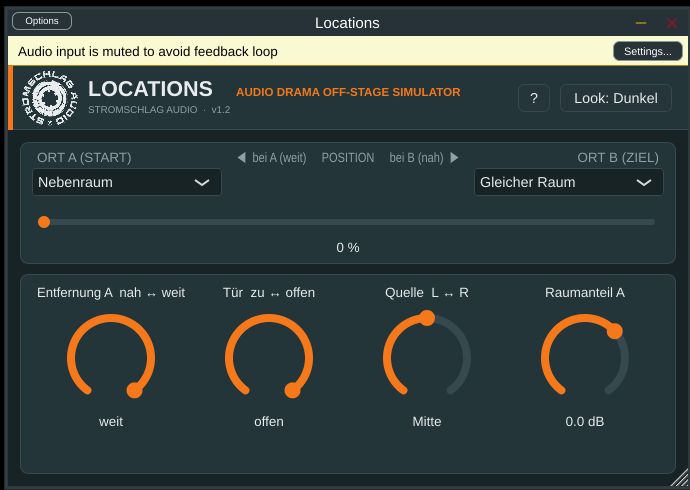
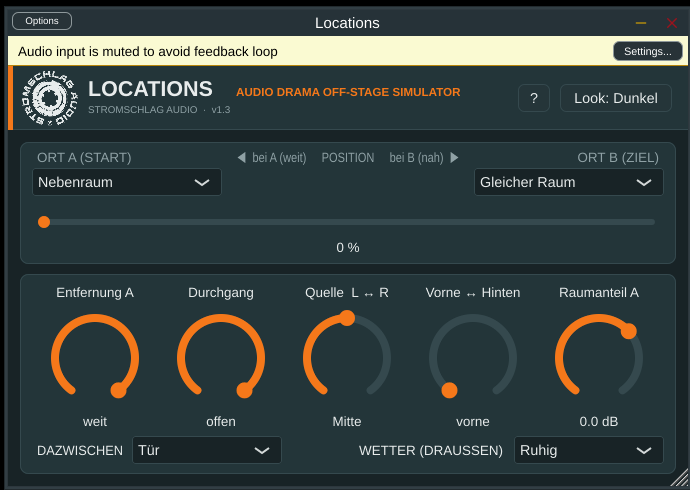
Version 1.3: Dazwischen (Tuer, Fenster, Vorhang, Autoscheibe), Wetter draussen, Vorne/Hinten, Hilfe mit Umlauten
Claude-Session: https://claude.ai/code/session_01N8U6GB1xxMvz4mQTh8N7Nk

diff --git a/Source/LocationsDSP.h b/Source/LocationsDSP.h
@@ -59,6 +59,45 @@ inline const PlaceDef& place (int i)
     return defs[std::clamp (i, 0, kNumPlaces - 1)];
 }
 
+constexpr int kFirstOutdoor = 10;   // ab diesem Index sind die Orte "Draussen"
+
+//==============================================================================
+// Was zwischen Quelle und Hoerer ist (Regler "zu - offen" blendet zwischen diesem Klang und offen)
+struct BarrierDef
+{
+    const char* name;
+    float fcClosed;   // Tiefpass bei geschlossen (Hz)
+    float gainDb;     // Pegel bei geschlossen
+    float hpHz;       // Bassabsenkung bei geschlossen
+    float bodyHz;     // Eigenresonanz (Tuerblatt, Glas, Kabine)
+    float bodyQ, bodyAmt;
+};
+constexpr int kNumBarriers = 4;
+inline const BarrierDef& barrier (int i)
+{
+    static const BarrierDef defs[kNumBarriers] = {
+        { "Tuer",         650.0f, -17.0f, 110.0f,  210.0f, 2.3f, 0.35f },
+        { "Fenster",     1100.0f, -20.0f, 180.0f,  420.0f, 2.0f, 0.25f },
+        { "Vorhang",     3500.0f,  -5.0f,  20.0f,  300.0f, 1.0f, 0.00f },
+        { "Autoscheibe",  800.0f, -14.0f, 120.0f,  150.0f, 1.6f, 0.50f },
+    };
+    return defs[std::clamp (i, 0, kNumBarriers - 1)];
+}
+
+// Wetter draussen: zusaetzlicher Hoehenverlust, Pegelverlust und Boeen (Pegel schwankt langsam)
+struct WeatherDef { const char* name; float lpOct, gainDb, gustDb, gustHz; };
+constexpr int kNumWeathers = 4;
+inline const WeatherDef& weather (int i)
+{
+    static const WeatherDef defs[kNumWeathers] = {
+        { "Ruhig",  0.0f,  0.0f,  0.0f, 0.5f },
+        { "Wind",   1.0f, -3.0f,  6.0f, 0.6f },
+        { "Regen",  1.5f, -4.0f,  1.5f, 0.3f },
+        { "Sturm",  2.0f, -6.0f, 10.0f, 1.0f },
+    };
+    return defs[std::clamp (i, 0, kNumWeathers - 1)];
+}
+
 //==============================================================================
 // Zustandsvariablen-Filter (TPT), stabil bei bewegter Grenzfrequenz
 struct SVF
@@ -248,6 +287,9 @@ struct Params
     float door = 1.0f;         // 0 = zu, 1 = offen
     float roomDb = 0.0f;       // Raumanteil von Ort A (Trim, dB)
     float pan = 0.0f;          // -1 = links, 0 = Mitte, +1 = rechts (nur die Quelle, nicht der Raum)
+    float rear = 0.0f;         // 0 = vorne, 1 = hinten (nur die Quelle)
+    int   barrier = 0;         // Tuer / Fenster / Vorhang / Autoscheibe
+    int   weather = 0;         // Ruhig / Wind / Regen / Sturm (wirkt nur draussen bei Ort A)
 };
 
 class Engine
@@ -259,7 +301,7 @@ public:
         roomA.prepare (sr); roomB.prepare (sr);
         for (auto& d : path) d.prepare ((int) (0.04f * sr) + 4);
         smCoef = 1.0f - std::exp (-1.0f / (0.03f * sr / kBlock));   // 30 ms Glaettung
-        first = true; counter = 0;
+        first = true; firstBar = true; counter = 0;
         reset();
     }
     void reset()
@@ -270,6 +312,7 @@ public:
         for (auto& f : doorLp) f.reset();
         for (auto& f : doorHp) f.reset();
         for (auto& f : doorBp) f.reset();
+        for (auto& f : rearHp) f.reset();
     }
     // left/right duerfen identisch sein (Mono). Verarbeitung in-place.
     void process (float* left, float* right, int numSamples, const Params& p)
@@ -289,6 +332,11 @@ public:
             float al, ar, bl, br;
             roomA.process (mono, wetA, echoA, al, ar);
             roomB.process (mono, wetB, echoB, bl, br);
+            if (rearCut < 1.0f)                              // hinten: Hoehen der Quelle etwas dunkler
+            {
+                l += (rearCut - 1.0f) * rearHp[0].highpass (l);
+                r += (rearCut - 1.0f) * rearHp[1].highpass (r);
+            }
             l = (l * panL + al + bl) * gain;                 // Quelle gepannt, Raum bleibt stehen
             r = (r * panR + ar + br) * gain;
 
@@ -329,8 +377,18 @@ private:
 
         // Zielwerte: Ort A in Start-Entfernung, Ort B nah, dazwischen gleitend
         const float t = sBlend, dA = sDist;
-        const float fcT = logLerp (logLerp (A.fcNear, A.fcFar, dA), B.fcNear, t);
-        const float gT = lerp (lerp (A.gainNear, A.gainFar, dA), B.gainNear, t);
+        // Wetter: nur wenn Ort A draussen ist, staerker mit Entfernung, verschwindet zu Ort B hin
+        const auto& W = weather (p.weather);
+        const float wAmt = (p.placeA >= kFirstOutdoor ? 1.0f : 0.0f) * dA * (1.0f - t);
+        gustState = gustState + gustCoef * (rand01() * 2.0f - 1.0f - gustState);
+        gustState2 = gustState2 + gustCoef * (gustState - gustState2);
+        gustCoef = 1.0f - std::exp (-2.0f * kPi * W.gustHz * kBlock / sr);
+        const float gustNorm = 0.7f / (0.577f * std::sqrt (gustCoef * 0.5f));
+        const float gust = std::clamp (gustState2 * gustNorm, -1.0f, 1.0f);       // langsam schwankend, ca. -1..1
+        const float fcT = logLerp (logLerp (A.fcNear, A.fcFar, dA), B.fcNear, t)
+                          * std::pow (0.5f, W.lpOct * wAmt * (1.0f + 0.3f * gust));
+        const float gT = lerp (lerp (A.gainNear, A.gainFar, dA), B.gainNear, t)
+                         + (W.gainDb + W.gustDb * 0.5f * (gust - 1.0f)) * wAmt;
         const float ca = std::cos (t * kPi * 0.5f), cb = std::sin (t * kPi * 0.5f);   // Raeume: gleiche Leistung
         const float wAT = A.rt60 > 0.0f ? dbToLin (lerp (A.wetNear, A.wetFar, dA) + p.roomDb) * ca : 0.0f;
         const float wBT = B.rt60 > 0.0f ? dbToLin (B.wetNear) * cb : 0.0f;
@@ -359,18 +417,30 @@ private:
         panL = 1.41421356f * std::cos (theta);
         panR = 1.41421356f * std::sin (theta);
 
-        // Tuer: zu = 650 Hz steil, dumpf, leise; offen = unveraendert
+        // vorne/hinten (nur Quelle): hinten bis zu 7 dB weniger Hoehen ab ca. 2,5 kHz
+        sRear += smCoef * (std::clamp (p.rear, 0.0f, 1.0f) - sRear);
+        rearCut = dbToLin (-7.0f * sRear);
+        if (sRear < 0.001f) rearCut = 1.0f;
+        for (auto& f : rearHp) f.set (2500.0f, sr);
+
+        // Durchgang (Tuer, Fenster, Vorhang, Autoscheibe): zu = Klang des Hindernisses, offen = unveraendert
+        const auto& D = barrier (p.barrier);
+        if (firstBar) { bFc = std::log (D.fcClosed); bGain = D.gainDb; bHp = D.hpHz; bBodyHz = std::log (D.bodyHz); bQ = D.bodyQ; bAmt = D.bodyAmt; firstBar = false; }
+        bFc += smCoef * (std::log (D.fcClosed) - bFc);  bGain += smCoef * (D.gainDb - bGain);   // Typwechsel gleitet
+        bHp += smCoef * (D.hpHz - bHp);                  bBodyHz += smCoef * (std::log (D.bodyHz) - bBodyHz);
+        bQ += smCoef * (D.bodyQ - bQ);                    bAmt += smCoef * (D.bodyAmt - bAmt);
+        const float fcClosed = std::exp (bFc);
         const float closed = 1.0f - sDoor;
-        const float dfc = 650.0f * std::pow (20000.0f / 650.0f, std::pow (sDoor, 1.4f));
+        const float dfc = fcClosed * std::pow (20000.0f / fcClosed, std::pow (sDoor, 1.4f));
         for (int c = 0; c < 2; ++c)
         {
             doorLp[c * 2].set (dfc, sr, 0.5412f);
             doorLp[c * 2 + 1].set (dfc, sr, 1.3066f);
-            doorHp[c].set (20.0f + 90.0f * closed, sr);
-            doorBp[c].set (210.0f, sr, 2.3f);
+            doorHp[c].set (20.0f + (bHp - 20.0f) * closed, sr);
+            doorBp[c].set (std::exp (bBodyHz), sr, bQ);
         }
-        doorBody = 0.35f * closed * closed;
-        doorGain = dbToLin (-17.0f * std::pow (closed, 1.2f));
+        doorBody = bAmt * closed * closed;
+        doorGain = dbToLin (bGain * std::pow (closed, 1.2f));
         doorOpen = smooth01 ((sDoor - 0.9f) / 0.1f);
     }
 
@@ -380,9 +450,14 @@ private:
     float sDly = 1.0f, curDly = 1.0f, dlyStep = 0.0f;
     float open = 1.0f, gain = 1.0f, panL = 1.0f, panR = 1.0f;
     float doorBody = 0, doorGain = 1, doorOpen = 1;
+    float sRear = 0.0f, rearCut = 1.0f;
+    float bFc = 6.5f, bGain = 0.0f, bHp = 20.0f, bBodyHz = 5.3f, bQ = 1.0f, bAmt = 0.0f; bool firstBar = true;
+    float gustState = 0.0f, gustState2 = 0.0f, gustCoef = 0.01f;
+    unsigned int rng = 0x9e3779b9u;
+    float rand01() { rng ^= rng << 13; rng ^= rng >> 17; rng ^= rng << 5; return (float) (rng & 0xffffff) / 16777216.0f; }
     bool first = true; int counter = 0;
     Room roomA, roomB;
     Delay path[2];
-    SVF lp[2], doorLp[4], doorBp[2]; OnePole doorHp[2];
+    SVF lp[2], doorLp[4], doorBp[2]; OnePole doorHp[2], rearHp[2];
 };
 } // namespace loc

diff --git a/Source/PluginEditor.cpp b/Source/PluginEditor.cpp
@@ -53,10 +53,25 @@ LocationsEditor::LocationsEditor (LocationsProcessor& p) : AudioProcessorEditor 
     content.addAndMakeVisible (blend);
     attBlend = std::make_unique<APVTS::SliderAttachment> (processor.apvts, "blend", blend);
 
-    setupKnob (distance, "distance", u8 ("Entfernung A  nah \xe2\x86\x94 weit"));
-    setupKnob (door, "door", u8 ("T\xc3\xbcr  zu \xe2\x86\x94 offen"));
+    setupKnob (distance, "distance", "Entfernung A");
+    setupKnob (door, "door", "Durchgang");
     setupKnob (pan, "pan", u8 ("Quelle  L \xe2\x86\x94 R"));
+    setupKnob (rear, "rear", u8 ("Vorne \xe2\x86\x94 Hinten"));
     setupKnob (room, "room", "Raumanteil A");
+
+    barrierBox.addItemList (LocationsProcessor::barrierNames(), 1);
+    weatherBox.addItemList (LocationsProcessor::weatherNames(), 1);
+    content.addAndMakeVisible (barrierBox);
+    content.addAndMakeVisible (weatherBox);
+    attBarrier = std::make_unique<APVTS::ComboBoxAttachment> (processor.apvts, "barrier", barrierBox);
+    attWeather = std::make_unique<APVTS::ComboBoxAttachment> (processor.apvts, "weather", weatherBox);
+    barrierLabel.setText ("DAZWISCHEN", juce::dontSendNotification);
+    weatherLabel.setText (u8 ("WETTER (DRAUSSEN)"), juce::dontSendNotification);
+    for (auto* l : { &barrierLabel, &weatherLabel })
+    {
+        l->setJustificationType (juce::Justification::centredRight);
+        content.addAndMakeVisible (*l);
+    }
 
 
     themeButton.onClick = [this]
@@ -79,26 +94,29 @@ LocationsEditor::LocationsEditor (LocationsProcessor& p) : AudioProcessorEditor 
     helpText.setPopupMenuEnabled (false);
     helpText.setText (u8 (
         "ORT A / ORT B\n"
-        "Start- und Zielort der Bewegung. Ort B ist meistens \"Gleicher Raum\", also der Raum der Zuhoerer.\n\n"
+        "Start- und Zielort der Bewegung. Ort B ist meistens „Gleicher Raum“, also der Raum der Zuhörer. Ort B ist immer nah.\n\n"
         "POSITION (A nach B)\n"
-        "Der wichtigste Regler. 0 % = Quelle bei Ort A, weit weg. 100 % = bei Ort B, ganz nah. "
-        "Automatisiere ihn fuer jede Bewegung (Treppe runter, Foerster kommt naeher).\n\n"
-        "ENTFERNUNG A (nah - weit)\n"
-        "Wie weit weg Ort A ist: 0 % = nah, 100 % = weit. Beispiel Foerster: weit = tief im Wald, 40 % = hinter dem naechsten Baum. "
-        "Ort B ist immer nah, deshalb wirkt dieser Regler nur auf Ort A.\n\n"
-        "TUER (zu-offen)\n"
-        "0 % = Tuer geschlossen: dumpf und leise. 100 % = offen, ohne Wirkung. Eigener Regler, weil eine Tuer meist zu einem anderen Zeitpunkt aufgeht.\n\n"
-        "QUELLE L - R (Panorama)\n"
-        "Platziert die Quelle - also das, was auf der Spur liegt: Stimme, Schritte, Geraeusch - links oder rechts. "
-        "Nur die Quelle wandert, Hall und Echo des Raums bleiben in der Mitte stehen (anders als der Pan am Kanal). "
-        "Wirkt bei Ort A, auf dem Weg und bei Ort B. Mitte = keine Wirkung.\n\n"
+        "Der wichtigste Regler. 0 % = Quelle bei Ort A, 100 % = bei Ort B. Automatisiere ihn für jede Bewegung "
+        "(Treppe herunter, Förster kommt näher, jemand geht weg).\n\n"
+        "ENTFERNUNG A (nah – weit)\n"
+        "Wie weit weg Ort A ist. Beispiel Förster: weit = tief im Wald, 40 % = hinter dem nächsten Baum. "
+        "Wirkt nur auf Ort A.\n\n"
+        "DURCHGANG (zu – offen) und DAZWISCHEN\n"
+        "Unten links wählst du, was zwischen Quelle und Hörer ist: Tür, Fenster, Vorhang oder Autoscheibe. "
+        "Der Regler „Durchgang“ blendet von zu (dumpf, leise, mit dem Klang des Hindernisses) nach offen (keine Wirkung). "
+        "Fenster gekippt = etwa in der Mitte. Autoscheibe: jemand spricht von außen ins Auto oder umgekehrt.\n\n"
+        "QUELLE L ↔ R (Panorama)\n"
+        "Platziert die Quelle – also das, was auf der Spur liegt: Stimme, Schritte, Geräusch – links oder rechts. "
+        "Hall und Echo bleiben in der Mitte (anders als der Pan am Kanal). Wirkt bei Ort A, auf dem Weg und bei Ort B.\n\n"
+        "VORNE ↔ HINTEN\n"
+        "Steht die Quelle hinter dem Hörer, klingt sie etwas dunkler. Hall und Echo bleiben gleich.\n\n"
+        "WETTER (DRAUSSEN)\n"
+        "Nur wenn Ort A draußen ist. Wind, Regen oder Sturm schlucken Höhen und lassen Rufe in Böen schwanken. "
+        "Wirkt umso stärker, je weiter weg die Quelle ist, und verschwindet, wenn sie bei Ort B ankommt.\n\n"
         "RAUMANTEIL A\n"
         "Mehr oder weniger Hall bzw. Echo von Ort A, in dB. Feinregler, normalerweise auf 0 dB lassen.\n\n"
-
-        "Look: Dunkel / Hell umschalten. Das Fenster ist am rechten unteren Rand skalierbar."));
-    helpText.setColour (juce::TextEditor::backgroundColourId, theme.panel);
-    helpText.setColour (juce::TextEditor::textColourId, theme.text);
-    helpText.setColour (juce::TextEditor::outlineColourId, theme.accent);
+        "Lautstärke und Laufzeit des Weges ändern sich automatisch mit der Entfernung.\n"
+        "Look: Dunkel / Hell umschalten. Das Fenster ist am rechten unteren Rand skalierbar (50–300 %)."));
     helpText.setFont (juce::FontOptions (13.0f));
     helpText.setVisible (false);
     content.addChildComponent (helpText);   // startet ausgeblendet
@@ -108,7 +126,10 @@ LocationsEditor::LocationsEditor (LocationsProcessor& p) : AudioProcessorEditor 
     placeB.setTooltip (u8 ("Zielort der Bewegung, meist Gleicher Raum"));
     blend.setTooltip (u8 ("Position: 0 % = bei Ort A (weit), 100 % = bei Ort B (nah). Hauptregler fuer die Bewegung."));
     distance.slider.setTooltip (u8 ("Wie weit weg Ort A ist (nah = 0 %, weit = 100 %). Ort B ist immer nah."));
-    door.slider.setTooltip (u8 ("0 % = Tuer zu (dumpf, leise), 100 % = offen"));
+    door.slider.setTooltip (u8 ("zu = dumpf und leise (Klang je nach \"Dazwischen\"), offen = keine Wirkung"));
+    rear.slider.setTooltip (u8 ("Quelle vor oder hinter dem H\xc3\xb6rer: hinten klingt sie etwas dunkler. Hall bleibt gleich."));
+    barrierBox.setTooltip (u8 ("Was zwischen Quelle und H\xc3\xb6rer ist: T\xc3\xbcr, Fenster, Vorhang oder Autoscheibe (jemand spricht von au\xc3\x9f" "en ins Auto)"));
+    weatherBox.setTooltip (u8 ("Nur wenn Ort A drau\xc3\x9f" "en ist: Wind, Regen oder Sturm schlucken H\xc3\xb6hen, B\xc3\xb6" "en lassen Rufe schwanken. Wirkt mit der Entfernung."));
     pan.slider.setTooltip (u8 ("Stimme bzw. Ger\xc3\xa4usch links/rechts platzieren. Hall und Echo bleiben in der Mitte. Wirkt bei Ort A, auf dem Weg und bei Ort B."));
     room.slider.setTooltip (u8 ("Mehr oder weniger Hall/Echo von Ort A (Feinregler, dB)"));
 
@@ -145,6 +166,11 @@ void LocationsEditor::applyTheme()
     for (auto* l : { &labelA, &labelB, &labelBlend })
         l->setColour (juce::Label::textColourId, theme.dim);
     themeButton.setButtonText (theme.dark ? "Look: Dunkel" : "Look: Hell");
+    helpText.setColour (juce::TextEditor::backgroundColourId, theme.panel);
+    helpText.setColour (juce::TextEditor::textColourId, theme.text);
+    helpText.setColour (juce::TextEditor::outlineColourId, theme.accent);
+    helpText.setColour (juce::TextEditor::focusedOutlineColourId, theme.accent);
+    helpText.applyColourToAllText (theme.text, true);
     sendLookAndFeelChange();
     repaint();
 }
@@ -220,12 +246,16 @@ void LocationsEditor::resized()
     blend.setBounds (24, 140, w - 48, 50);
 
     juce::Rectangle<int> row (24, 216, w - 48, 150);
-    const int kw = row.getWidth() / 4;
-    for (auto* k : { &distance, &door, &pan, &room })
+    const int kw = row.getWidth() / 5;
+    for (auto* k : { &distance, &door, &pan, &rear, &room })
     {
         auto cell = row.removeFromLeft (kw);
         k->label.setBounds (cell.removeFromTop (20));
         k->slider.setBounds (cell.reduced (8, 2));
     }
+    barrierLabel.setBounds (24, 372, 96, 24);
+    barrierBox.setBounds (124, 370, 150, 28);
+    weatherLabel.setBounds (w - 340, 372, 160, 24);
+    weatherBox.setBounds (w - 174, 370, 150, 28);
     helpText.toFront (false);
 }

diff --git a/Source/PluginProcessor.cpp b/Source/PluginProcessor.cpp
@@ -12,6 +12,16 @@ juce::StringArray LocationsProcessor::placeNames()
              u8 ("Drau\xc3\x9f" "en: Stra\xc3\x9f" "e"), u8 ("Drau\xc3\x9f" "en: Schlucht / Felswand") };
 }
 
+juce::StringArray LocationsProcessor::barrierNames()
+{
+    return { u8 ("T\xc3\xbcr"), "Fenster", "Vorhang", "Autoscheibe" };   // Reihenfolge wie loc::barrier()
+}
+
+juce::StringArray LocationsProcessor::weatherNames()
+{
+    return { "Ruhig", "Wind", "Regen", "Sturm" };                          // Reihenfolge wie loc::weather()
+}
+
 juce::AudioProcessorValueTreeState::ParameterLayout LocationsProcessor::createLayout()
 {
     using namespace juce;
@@ -36,8 +46,15 @@ juce::AudioProcessorValueTreeState::ParameterLayout LocationsProcessor::createLa
     auto doorText = AudioParameterFloatAttributes().withStringFromValueFunction (
         [] (float v, int) { const int pct = roundToInt (v * 100.0f);
                             return pct <= 0 ? String ("zu") : pct >= 100 ? String ("offen") : String (pct) + " %"; });
-    layout.add (std::make_unique<AudioParameterFloat> (ParameterID { "door", 1 }, u8 ("T\xc3\xbcr (zu-offen)"),
+    layout.add (std::make_unique<AudioParameterFloat> (ParameterID { "door", 1 }, "Durchgang (zu-offen)",
                                                        NormalisableRange<float> (0.0f, 1.0f), 1.0f, doorText));
+    auto rearText = AudioParameterFloatAttributes().withStringFromValueFunction (
+        [] (float v, int) { const int pct = roundToInt (v * 100.0f);
+                            return pct <= 0 ? String ("vorne") : pct >= 100 ? String ("hinten") : String (pct) + " %"; });
+    layout.add (std::make_unique<AudioParameterFloat> (ParameterID { "rear", 1 }, "Quelle vorne-hinten",
+                                                       NormalisableRange<float> (0.0f, 1.0f), 0.0f, rearText));
+    layout.add (std::make_unique<AudioParameterChoice> (ParameterID { "barrier", 1 }, "Dazwischen", barrierNames(), 0));
+    layout.add (std::make_unique<AudioParameterChoice> (ParameterID { "weather", 1 }, "Wetter (draussen)", weatherNames(), 0));
     layout.add (std::make_unique<AudioParameterFloat> (ParameterID { "room", 1 }, "Raumanteil (Ort A)",
                                                        NormalisableRange<float> (-24.0f, 12.0f), 0.0f, decibel));
     auto panText = AudioParameterFloatAttributes().withStringFromValueFunction (
@@ -61,6 +78,9 @@ LocationsProcessor::LocationsProcessor()
     pDoor = apvts.getRawParameterValue ("door");
     pRoom = apvts.getRawParameterValue ("room");
     pPan = apvts.getRawParameterValue ("pan");
+    pRear = apvts.getRawParameterValue ("rear");
+    pBarrier = apvts.getRawParameterValue ("barrier");
+    pWeather = apvts.getRawParameterValue ("weather");
 }
 
 void LocationsProcessor::prepareToPlay (double sampleRate, int)
@@ -93,6 +113,9 @@ void LocationsProcessor::processBlock (juce::AudioBuffer<float>& buffer, juce::M
     p.door = pDoor->load();
     p.roomDb = pRoom->load();
     p.pan = pPan->load();
+    p.rear = pRear->load();
+    p.barrier = juce::roundToInt (pBarrier->load());
+    p.weather = juce::roundToInt (pWeather->load());
 
     float* left = buffer.getWritePointer (0);
     float* right = numCh > 1 ? buffer.getWritePointer (1) : left;

diff --git a/Source/PluginProcessor.h b/Source/PluginProcessor.h
@@ -33,6 +33,8 @@ public:
     void setStateInformation (const void* data, int sizeInBytes) override;
 
     static juce::StringArray placeNames();
+    static juce::StringArray barrierNames();
+    static juce::StringArray weatherNames();
     juce::AudioProcessorValueTreeState apvts;
 
 private:
@@ -41,7 +43,8 @@ private:
     std::atomic<float>* pPlaceA = nullptr; std::atomic<float>* pPlaceB = nullptr;
     std::atomic<float>* pBlend = nullptr;  std::atomic<float>* pDistance = nullptr;
     std::atomic<float>* pDoor = nullptr;   std::atomic<float>* pRoom = nullptr;
-    std::atomic<float>* pPan = nullptr;
+    std::atomic<float>* pPan = nullptr;  std::atomic<float>* pRear = nullptr;
+    std::atomic<float>* pBarrier = nullptr; std::atomic<float>* pWeather = nullptr;
 
     JUCE_DECLARE_NON_COPYABLE_WITH_LEAK_DETECTOR (LocationsProcessor)
 };

diff --git a/Source/PluginEditor.h b/Source/PluginEditor.h
@@ -34,7 +34,10 @@ private:
     juce::ComboBox placeA, placeB;
     juce::Label labelA, labelB, labelBlend;
     juce::Slider blend;
-    Knob distance, door, pan, room;
+    Knob distance, door, pan, rear, room;
+    juce::ComboBox barrierBox, weatherBox;
+    juce::Label barrierLabel, weatherLabel;
+    std::unique_ptr<APVTS::ComboBoxAttachment> attBarrier, attWeather;
     juce::TextButton themeButton;
     juce::TextButton helpButton;
     juce::TextEditor helpText;

diff --git a/README.md b/README.md
@@ -67,8 +67,11 @@ passieren automatisch.
 | Ort A / Ort B | Start und Ziel der Bewegung |
 | Position (A nach B) | **der Regler für die Bewegung**: 0 % = bei Ort A, 100 % = bei Ort B (nah) |
 | Entfernung A (nah – weit) | wie weit weg Ort A ist. Wirkt nur auf Ort A |
-| Tür (zu – offen) | zu = dumpf und leise, offen = keine Wirkung. Eigener Regler, weil eine Tür meist zu einem anderen Zeitpunkt aufgeht, als sich jemand bewegt |
+| Durchgang (zu – offen) | zu = dumpf und leise mit dem Klang dessen, was dazwischen ist; offen = keine Wirkung. Eigener Regler, weil eine Tür meist zu einem anderen Zeitpunkt aufgeht, als sich jemand bewegt |
+| Dazwischen | Tür, Fenster (gekippt ≈ Mitte), Vorhang oder Autoscheibe (jemand spricht von außen ins Auto) |
 | Quelle L ↔ R | Panorama der Quelle – also dessen, was auf der Spur liegt (Stimme, Schritte, Geräusch). Nur die Quelle wandert, Hall und Echo bleiben in der Mitte – anders als beim Pan am Kanal. Wirkt bei Ort A, auf dem Weg und bei Ort B. Mitte = keine Wirkung |
+| Vorne ↔ Hinten | steht die Quelle hinter dem Hörer, klingt sie etwas dunkler. Hall und Echo bleiben gleich |
+| Wetter (draußen) | Ruhig, Wind, Regen, Sturm. Nur wenn Ort A draußen ist: schluckt Höhen, Böen lassen Rufe schwanken. Stärker mit der Entfernung, verschwindet bei Ort B |
 | Raumanteil A | mehr oder weniger Hall bzw. Echo von Ort A (Feinregler, normalerweise 0 dB) |
 
 ## Anwendung
@@ -81,8 +84,14 @@ Steht er nur hinter dem nächsten Baum: Entfernung A auf etwa 40 %.
 
 **Jemand geht weg:** wie oben, nur die Position von 100 auf 0 % ziehen.
 
-**Vor der geschlossenen Tür:** Ort A = Flur, Ort B = Gleicher Raum, Position auf 0 %, Tür auf „zu“.
-Geht die Tür auf: Tür von zu auf offen ziehen, danach ggf. die Position, wenn die Figur hereinkommt.
+**Vor der geschlossenen Tür:** Ort A = Flur, Ort B = Gleicher Raum, Position auf 0 %, Dazwischen = Tür, Durchgang auf „zu“.
+Geht die Tür auf: Durchgang von zu auf offen ziehen, danach ggf. die Position, wenn die Figur hereinkommt.
+
+**Jemand spricht von außen ins Auto:** Ort A und B = Gleicher Raum (oder Draußen: Straße), Dazwischen = Autoscheibe,
+Durchgang auf „zu“. Kurbelt jemand die Scheibe herunter: Durchgang auf offen ziehen.
+
+**Ruf über das Feld bei Sturm:** Ort A = Draußen: Feld, Entfernung A = weit, Wetter = Sturm. Position von 0 auf 100 %:
+Aus der Ferne kommen nur Fetzen durch, je näher er kommt, desto verständlicher.
 
 **Ruf aus der Schlucht:** Ort A und B = Draußen: Schlucht / Felswand, Entfernung A = weit, Position auf 0 % lassen.
 
@@ -96,6 +105,7 @@ Geht die Tür auf: Tür von zu auf offen ziehen, danach ggf. die Position, wenn 
 
 Die Versionsnummer steht in der Datei `VERSION`, im Plugin-Kopf und im Namen der Release. Sie wird bei jeder Änderung hochgezählt (1.0, 1.1, 1.2 …).
 
+- **1.3** – Auswahl „Dazwischen“ (Tür, Fenster, Vorhang, Autoscheibe), Wetter für draußen (Wind, Regen, Sturm), Regler Vorne ↔ Hinten, Hilfe mit Umlauten.
 - **1.2** – Panorama-Regler heißt jetzt „Quelle L ↔ R“, Erklärung in Hilfe und Tooltip präzisiert.
 - **1.1** – Engine mit einer einzigen gleitenden Kette (kein hohler Klang mehr in der Mitte der Bewegung),
   Ort B immer nah, Entfernung und Raumanteil nur für Ort A, Wald ohne Hall, neue Orte Dachboden, Badezimmer,
